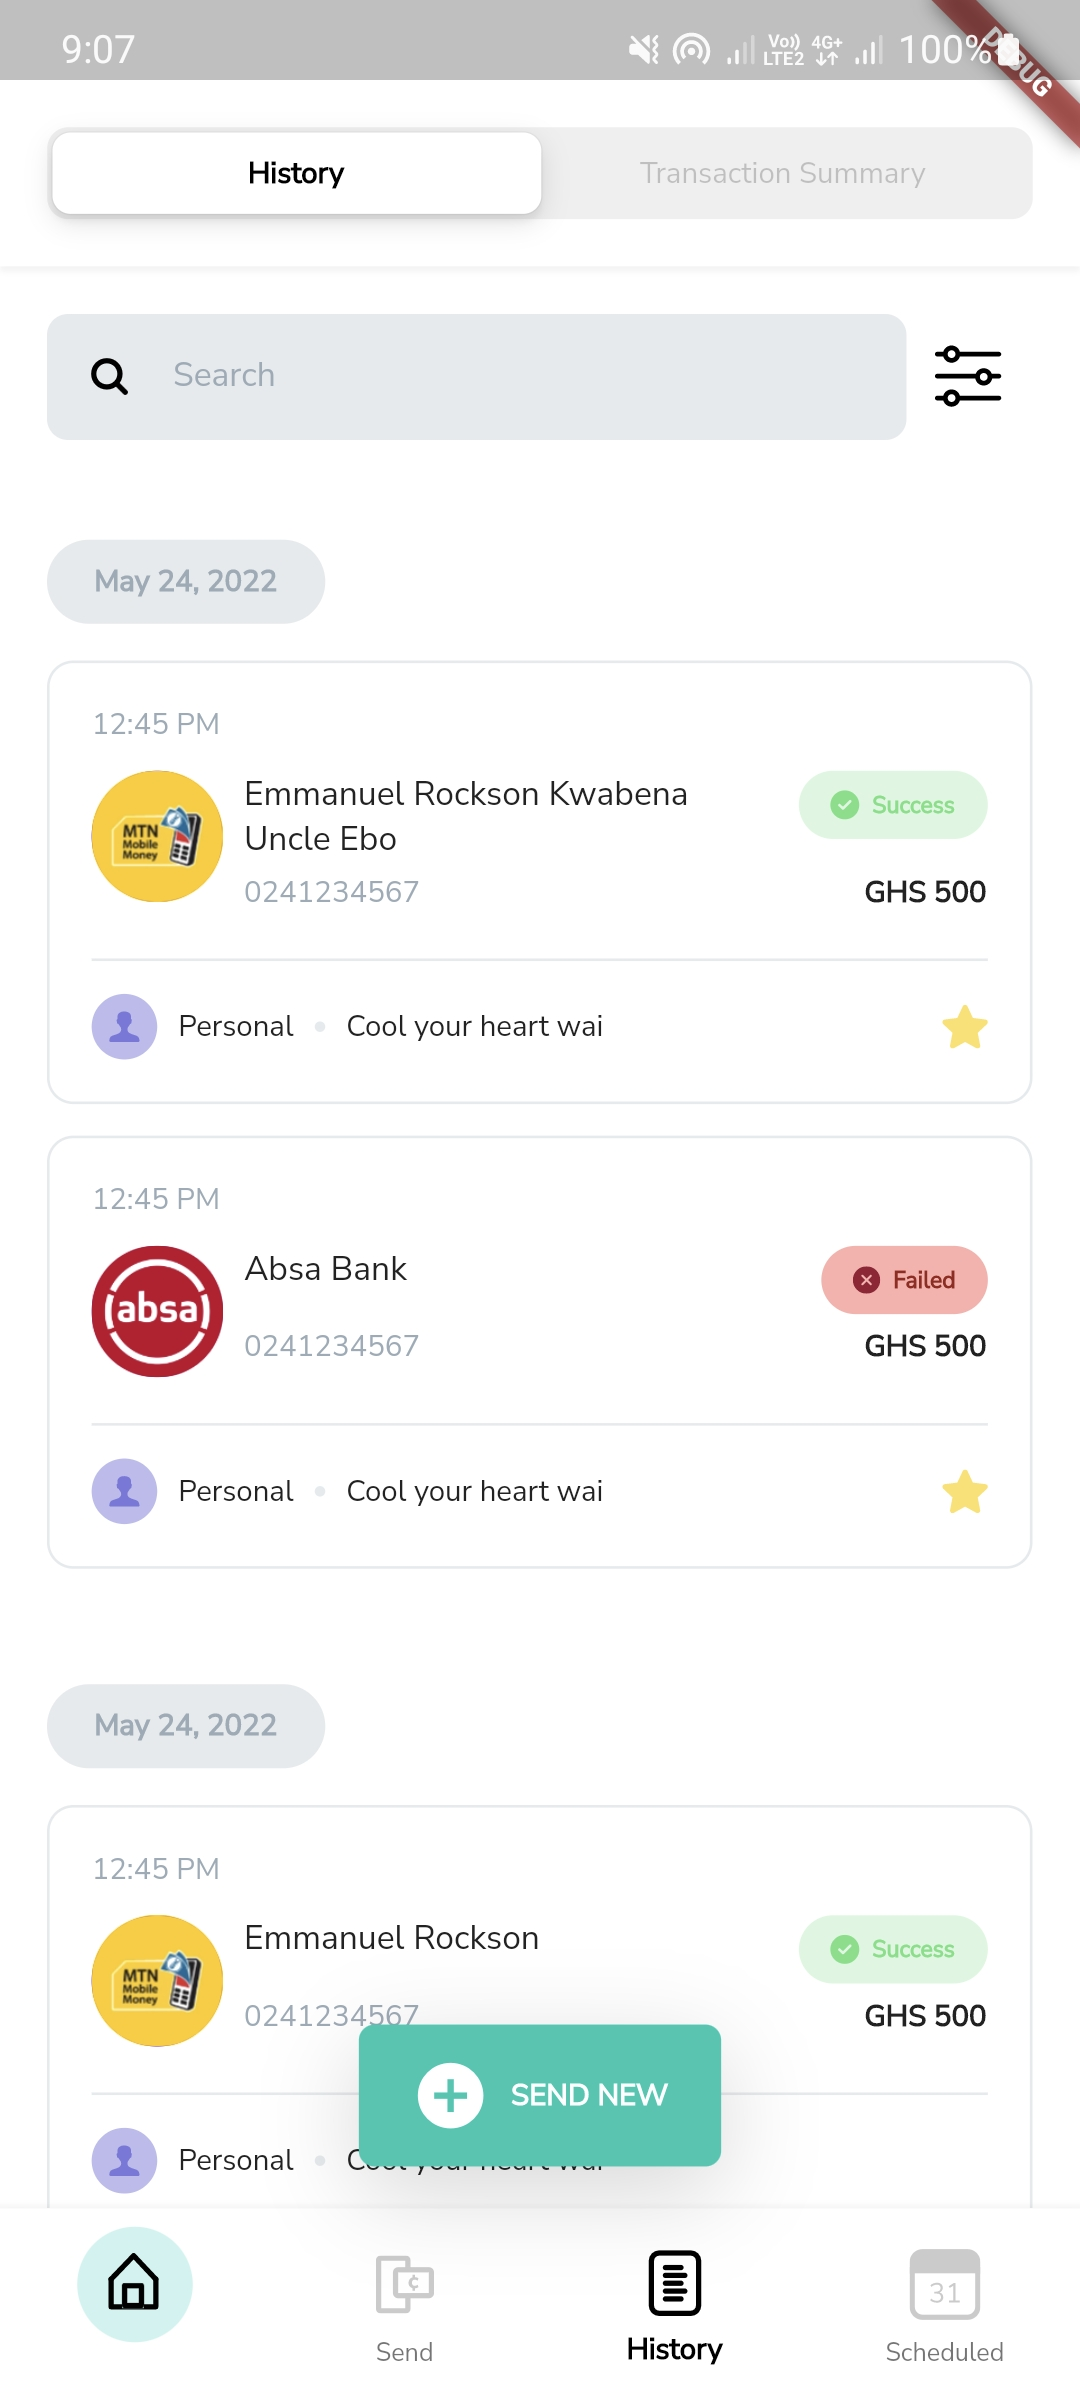
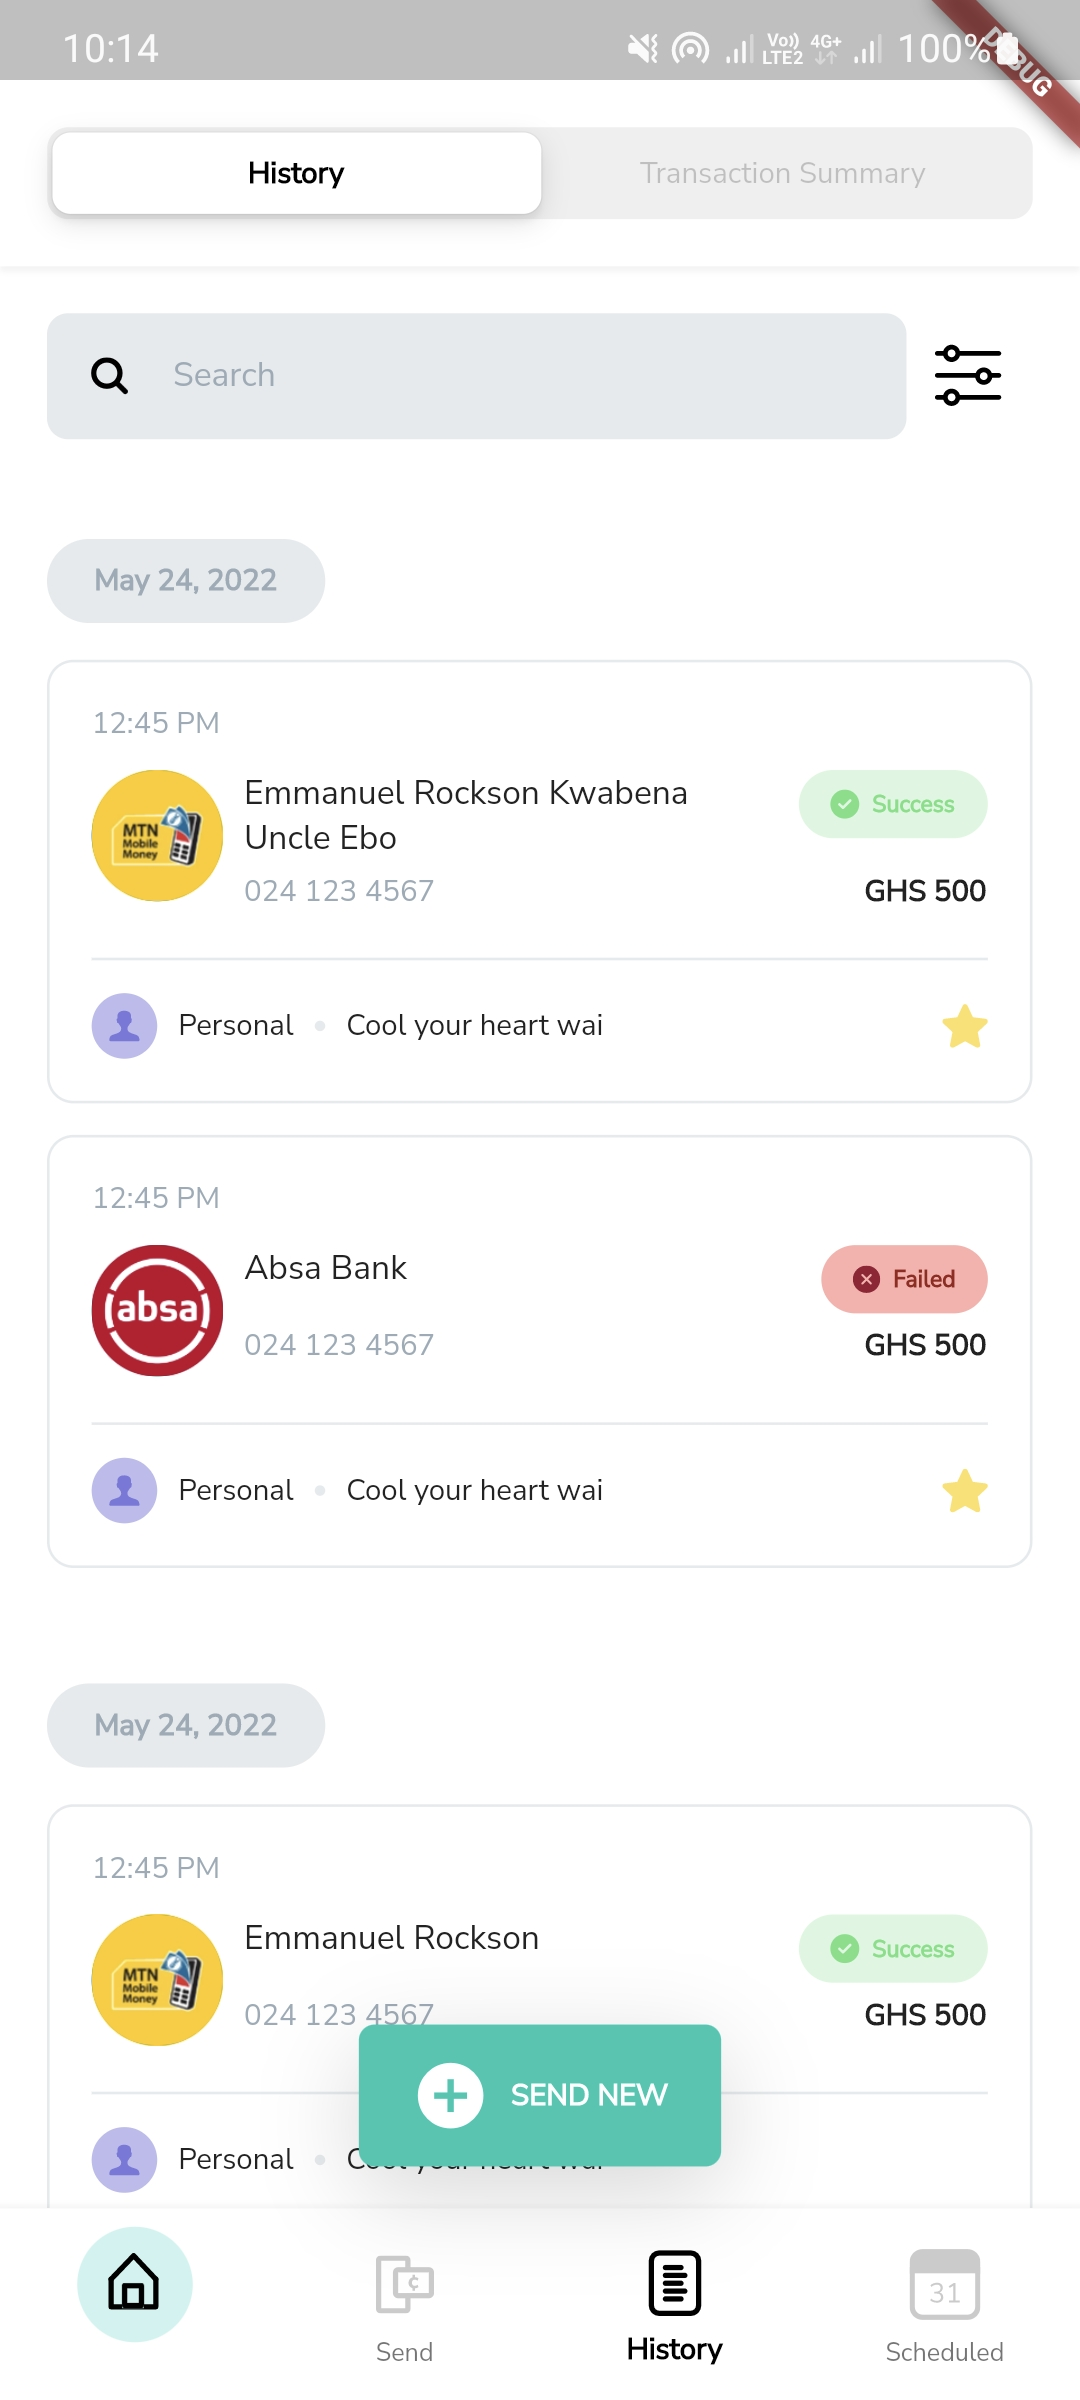
format phone number properly

diff --git a/lib/components/TransactionCard.dart b/lib/components/TransactionCard.dart
@@ -5,17 +5,17 @@ import '../utils/colors.dart';
 import 'StatusChip.dart';
 
 class TransactionCard extends StatelessWidget {
-  const TransactionCard({
-    super.key,
-    required this.time,
-    required this.name,
-    this.reference,
-    required this.phone,
-    required this.amount,
-    required this.isSuccessful,
-    required this.isMoMo,
-    this.isFavorite = false, required this.category
-  });
+  const TransactionCard(
+      {super.key,
+      required this.time,
+      required this.name,
+      this.reference,
+      required this.phone,
+      required this.amount,
+      required this.isSuccessful,
+      required this.isMoMo,
+      this.isFavorite = false,
+      required this.category});
 
   final String time, name, phone, amount, category;
   final String? reference;
@@ -74,7 +74,10 @@ class TransactionCard extends StatelessWidget {
                       mainAxisAlignment: MainAxisAlignment.spaceBetween,
                       children: [
                         Text(
-                          phone,
+                          phone.replaceAllMapped(
+                              RegExp(r'^(\d{3})(\d{3})(\d{4})$'), (match) {
+                            return '${match[1]} ${match[2]} ${match[3]}';
+                          }),
                           style: const TextStyle(color: AppColors.textGray),
                         ),
                         Text(
@@ -105,19 +108,21 @@ class TransactionCard extends StatelessWidget {
                 width: 8,
               ),
               Text(category),
-              if (reference != null) Container(
-                height: 4,
-                width: 4,
-                margin: const EdgeInsets.symmetric(horizontal: 8),
-                decoration: BoxDecoration(
-                    color: AppColors.backgroundGray,
-                    borderRadius: BorderRadius.circular(10)),
-              ),
+              if (reference != null)
+                Container(
+                  height: 4,
+                  width: 4,
+                  margin: const EdgeInsets.symmetric(horizontal: 8),
+                  decoration: BoxDecoration(
+                      color: AppColors.backgroundGray,
+                      borderRadius: BorderRadius.circular(10)),
+                ),
               if (reference != null) Expanded(child: Text(reference!)),
-              if (isFavorite) Container(
-                margin: const EdgeInsets.only(left: 8.0),
-                child: SvgPicture.asset('assets/icons/Star.svg'),
-              ),
+              if (isFavorite)
+                Container(
+                  margin: const EdgeInsets.only(left: 8.0),
+                  child: SvgPicture.asset('assets/icons/Star.svg'),
+                ),
             ],
           )
         ],
